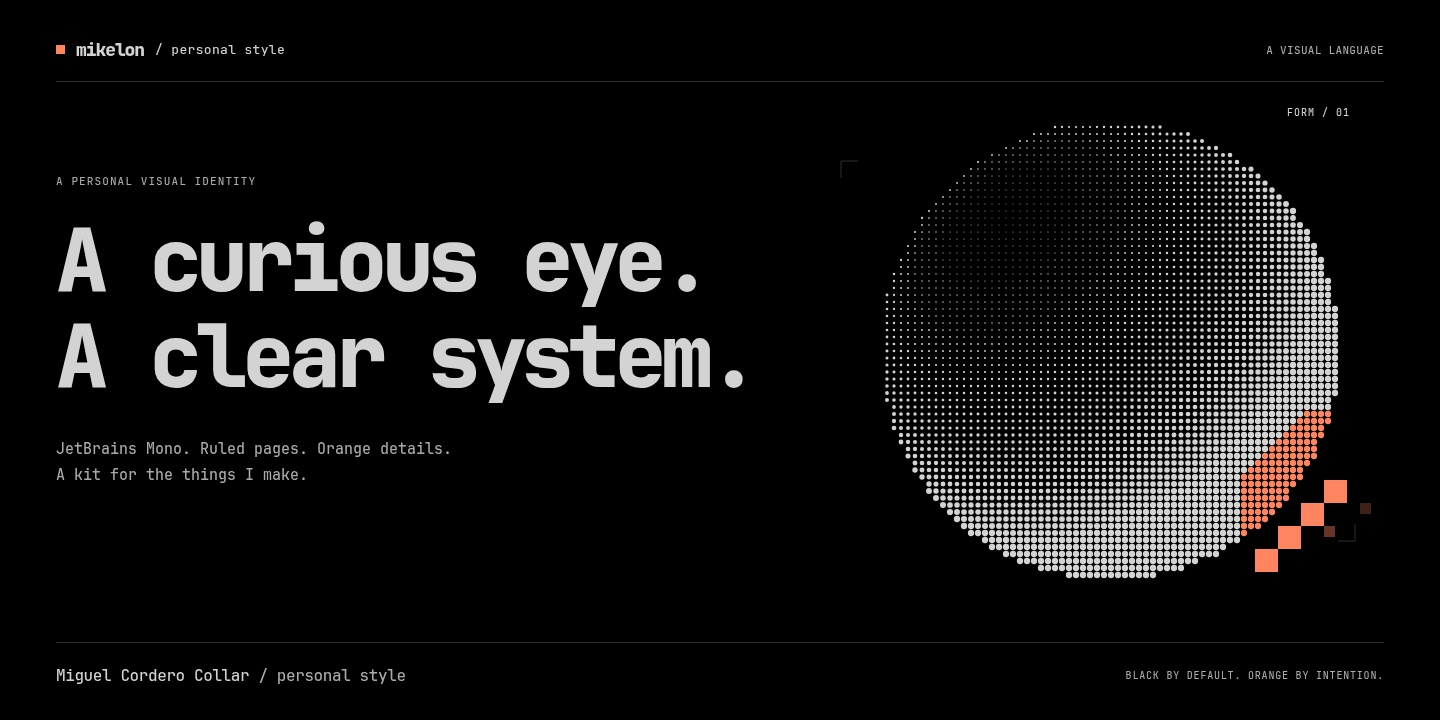
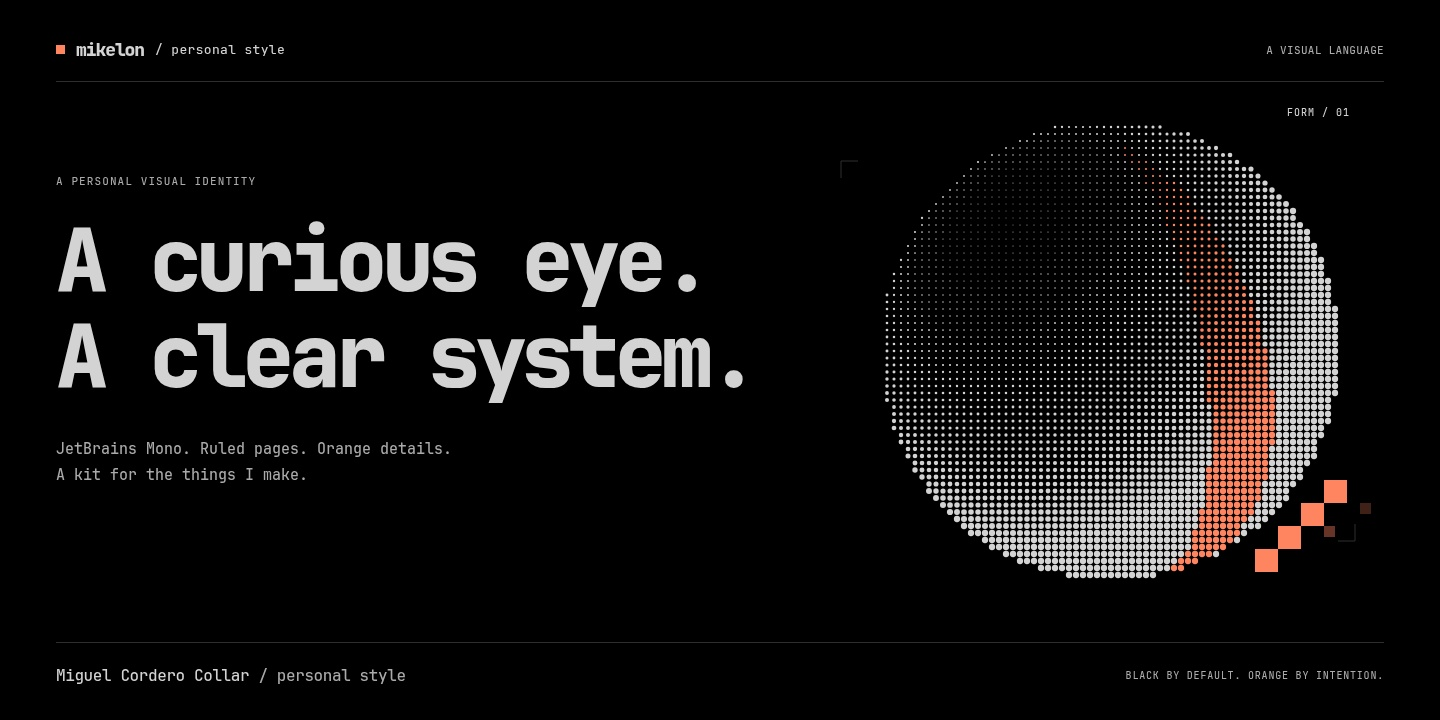
Turn the orange on the spheres into a wedge fixed to the surface
The rotating circle, hero globe, halftone sphere (asset, playground and
form recipe) and the identity banner now colour a band of longitude from
pole to pole. It is chosen in the globe's own coordinates, so it turns
with the rotation, and only front-facing dots show it.

Changed region(s): [[0.8125, 0.3056, 0.9375, 0.7944]]

diff --git a/skills/miguel-personal-style/assets/examples/design-system.html b/skills/miguel-personal-style/assets/examples/design-system.html
@@ -324,7 +324,7 @@
         <h1 id="page-title">Small details.<br>Distinct character.</h1>
         <p class="hero-copy">A working kit for the things I make.<br>Type, colour, useful components, and a little room to play.</p>
       </div>
-      <figure class="hero-art" aria-label="Procedural monochrome halftone study with an orange pixel marker">
+      <figure class="hero-art" aria-label="Procedural halftone globe with an orange wedge">
         <span class="art-index">FIG. 01 / DOT STUDY</span><div id="hero-sphere" aria-hidden="true"></div><figcaption class="art-caption">Precise grid. Imperfect ink.</figcaption>
       </figure>
     </section>
@@ -426,7 +426,7 @@
       <div class="motion-toolbar"><button type="button" class="btn" id="motion-play" aria-pressed="true">Pause motion <span aria-hidden="true">Ⅱ</span></button><label class="motion-control"><span class="control-top">Pace <output id="motion-speed-output" for="motion-speed">0.65×</output></span><input type="range" id="motion-speed" min="0.2" max="1.4" step="0.05" value="0.65"></label><label class="motion-control"><span class="control-top">Dot spacing <output id="motion-spacing-output" for="motion-spacing">22px</output></span><input type="range" id="motion-spacing" min="14" max="34" step="2" value="22"></label><label class="motion-control"><span class="control-top">Palette</span><select class="input" id="motion-colour"><option value="duo">Ink & orange</option><option value="ink">Neutral ink</option><option value="orange">Orange ink</option></select></label><label class="check motion-accent"><input type="checkbox" id="motion-accent" checked>Travelling orange</label><button type="button" class="text-button" id="motion-reset">Restart loops ↺</button></div>
       <p class="motion-status" id="motion-status" role="status">Choose this tab to start the live studies.</p>
       <div class="motion-grid" id="motion-grid"></div>
-      <p class="motion-credit">The travelling orange passes across the rotating objects, wave field and terrain. Dot orbit and Dither current use <a href="https://github.com/paper-design/shaders" target="_blank" rel="noopener">Paper Shaders 0.0.81</a>, bundled locally under <a href="../vendor/paper-shaders/LICENSE" target="_blank" rel="noopener">Apache 2.0</a>. The other five are original Canvas studies. Motion pauses in hidden tabs and outside the view; reduced-motion preferences start with stills. “Save frame” downloads a PNG of the current image.</p>
+      <p class="motion-credit">The rotating circle carries an orange wedge fixed to its surface; the travelling orange passes across the cube, wave field and terrain. Dot orbit and Dither current use <a href="https://github.com/paper-design/shaders" target="_blank" rel="noopener">Paper Shaders 0.0.81</a>, bundled locally under <a href="../vendor/paper-shaders/LICENSE" target="_blank" rel="noopener">Apache 2.0</a>. The other five are original Canvas studies. Motion pauses in hidden tabs and outside the view; reduced-motion preferences start with stills. “Save frame” downloads a PNG of the current image.</p>
     </section>
     <footer class="page-footer"><p>mikelon / A working design system.<br>Based on Miguel's personal website and mikelon_kit. Source palette and typography; new component and motif studies.</p><div class="footer-links"><a href="https://github.com/miguelcorderocollar/miguel-personal-style#install-the-skill" target="_blank" rel="noopener">Get the skill ↗</a><a href="../fonts/OFL.txt" target="_blank" rel="noopener">Font licence ↗</a></div></footer>
   </main>
@@ -504,21 +504,30 @@
     window.addEventListener('hashchange', () => selectTab(location.hash.slice(1)));
     $('#assets-link').addEventListener('click', event => { event.preventDefault(); selectTab('assets', true); $('.tabs-shell').scrollIntoView({block:'start'}); });
 
-    function sphereSVG(ink = palette().ink, accent = palette().accent, showMarker = true) {
-      let circles = '';
+    // The orange wedge: a band of longitude from pole to pole, fixed to the globe's surface.
+    // (nx, ny, nz) is a front-facing point on a unit sphere in screen space: x right, y down, z toward the viewer.
+    // Undo the globe's forward tilt, then compare the point's longitude with the wedge's meridian.
+    const WEDGE = { tilt: .42, spin: .58, half: .19 };
+    function inWedge(nx, ny, nz, { tilt = WEDGE.tilt, spin = WEDGE.spin, half = WEDGE.half } = {}) {
+      if (nz < 0) return false;
+      const longitude = Math.atan2(nx, ny * Math.sin(tilt) + nz * Math.cos(tilt)) - spin;
+      return Math.abs(Math.atan2(Math.sin(longitude), Math.cos(longitude))) < half;
+    }
+    function sphereSVG(ink = palette().ink, accent = palette().accent) {
+      let circles = '', wedge = '';
       for (let y = 16; y < 286; y += 5) for (let x = 16; x < 286; x += 5) {
         const nx = (x - 150) / 125, ny = (y - 150) / 125, d = nx * nx + ny * ny;
         if (d > 1) continue;
         const nz = Math.sqrt(1 - d), light = Math.max(0, -.56 * nx - .6 * ny + .57 * nz);
-        const radius = .35 + (1 - light) * 2.1;
-        circles += `<circle cx="${x}" cy="${y}" r="${radius.toFixed(2)}"/>`;
+        const mark = `<circle cx="${x}" cy="${y}" r="${(.35 + (1 - light) * 2.1).toFixed(2)}"/>`;
+        if (inWedge(nx, ny, nz)) wedge += mark; else circles += mark;
       }
-      return svgWrap(`<g fill="${ink}">${circles}</g>${showMarker ? `<path d="M249 225h13v13h13v13h-13v13h-13v-13h-13v-13h13z" fill="${accent}"/>` : ''}`, 'Procedural halftone sphere study', 300, 300);
+      return svgWrap(`<g fill="${ink}">${circles}</g><g fill="${accent}">${wedge}</g>`, 'Procedural halftone globe with an orange wedge', 300, 300);
     }
     const clamp = (value, low = 0, high = 1) => Math.max(low, Math.min(high, value));
     const noise = (x, y) => { const n = Math.sin(x * 127.1 + y * 311.7) * 43758.5453; return n - Math.floor(n); };
     const HALFTONES = ['sphere','cube','terrain','fade','ripple','mesh','wave','arrow'];
-    const HALFTONE_MODES = { cube:'duo', fade:'orange', mesh:'duo', arrow:'orange' };
+    const HALFTONE_MODES = { sphere:'duo', cube:'duo', fade:'orange', mesh:'duo', arrow:'orange' };
     function inPolygon(x, y, points) {
       let inside = false;
       for (let i = 0, j = points.length - 1; i < points.length; j = i++) {
@@ -555,13 +564,19 @@
       if (kind === 'arrow') return inPolygon(x,y,[[37,86],[190,86],[190,44],[281,110],[190,176],[190,134],[37,134]]) ? .12 + .8 * (x - 37) / 244 : null;
       return null;
     }
+    // Where "Ink + orange detail" places its orange. On the sphere, it is the surface-fixed wedge.
+    function halftoneAccent(kind, x, y) {
+      if (kind !== 'sphere') return x > 190 && y < 118;
+      const nx = (x - 160) / 86, ny = (y - 110) / 86;
+      return inWedge(nx, ny, Math.sqrt(Math.max(0, 1 - nx * nx - ny * ny)));
+    }
     function halftoneSVG(kind, options = {}) {
       const p = options.palette || palette(), cell = options.cell || 7, contrast = options.contrast ?? 1, dot = options.dot || 'circle', mode = options.mode || 'ink';
       let marks = '';
       for (let y = cell / 2; y < 220; y += cell) for (let x = cell / 2; x < 320; x += cell) {
         let tone = halftoneTone(kind, x, y); if (tone === null) continue;
         tone = Math.round(clamp((tone - .5) * contrast + .5) * 8) / 8;
-        const r = cell * .46 * (.12 + .88 * tone), colour = mode === 'orange' || (mode === 'duo' && x > 190 && y < 118) ? p.accent : p.ink;
+        const r = cell * .46 * (.12 + .88 * tone), colour = mode === 'orange' || (mode === 'duo' && halftoneAccent(kind, x, y)) ? p.accent : p.ink;
         const px = x.toFixed(2), py = y.toFixed(2), radius = r.toFixed(2);
         if (dot === 'square') marks += `<rect x="${(x-r*.85).toFixed(2)}" y="${(y-r*.85).toFixed(2)}" width="${(r*1.7).toFixed(2)}" height="${(r*1.7).toFixed(2)}" fill="${colour}"/>`;
         else if (dot === 'cross') marks += `<path d="M${(x-r).toFixed(2)} ${py}h${(r*2).toFixed(2)}M${px} ${(y-r).toFixed(2)}v${(r*2).toFixed(2)}" stroke="${colour}" stroke-width="${Math.max(.45,r*.5).toFixed(2)}" fill="none"/>`;
@@ -723,7 +738,7 @@
     const motionPresets = [
       {id:'orbit',name:'Dot orbit',note:'A field of dots, each moving around its own little centre. A loose background with a steady rhythm.',engine:'paper',pace:.8},
       {id:'dither',name:'Dither current',note:'A slow current passing through a fixed pixel screen. Try it behind a short title.',engine:'paper',pace:.22},
-      {id:'circle',name:'Rotating circle',note:'A dotted globe turns through a travelling band of orange. The dots follow the surface as it rotates.',engine:'canvas',pace:1},
+      {id:'circle',name:'Rotating circle',note:'A dotted globe turns with an orange wedge, a slice from pole to pole that stays on the surface as it rotates.',engine:'canvas',pace:1},
       {id:'cube',name:'Turning cube',note:'Three dotted faces turn in perspective while a warm strip passes across the object.',engine:'canvas',pace:1},
       {id:'wave',name:'Wave field',note:'Rows of dots grow and settle as a wave moves through them.',engine:'canvas',pace:1},
       {id:'terrain',name:'Drifting terrain',note:'A dotted landscape shifting under a quiet horizon.',engine:'canvas',pace:1},
@@ -764,7 +779,10 @@
             const longitude=col*Math.PI*2/count,point=rotatedPoint({x:Math.cos(latitude)*Math.cos(longitude),y:Math.sin(latitude),z:Math.cos(latitude)*Math.sin(longitude)},time);
             if(point.z<0)continue;
             const shade=clamp(point.x*-.42+point.y*-.48+point.z*.65);
-            dots.push({...point,r:1.2+(1-shade)*1.6});
+            // The wedge is chosen in the globe's own coordinates (before rotation), so it turns with the surface.
+            // Column 0 is its centre meridian: every ring contributes a dot and the slice meets at both poles.
+            const offset=Math.min(longitude,Math.PI*2-longitude);
+            dots.push({...point,r:1.2+(1-shade)*1.6,wedge:offset<.3});
           }
         }
       }
@@ -780,7 +798,7 @@
         const scale=Math.min(h*(scene.id==='cube'?.235:.33),w*.27);
         for(const point of rotatingDots(scene.id,time,gap)){
           const perspective=4.5/(4.5-point.z),x=w*.5+point.x*scale*perspective,y=h*.52+point.y*scale*perspective;
-          dot(x,y,point.r*perspective,motionAccentAt(point.x/2.8+.5,time,point.x>.3&&point.y<.3));
+          dot(x,y,point.r*perspective,scene.id==='circle'?point.wedge:motionAccentAt(point.x/2.8+.5,time,point.x>.3&&point.y<.3));
         }
       } else if (scene.id === 'terrain') {
         const columns=Math.ceil(w/(gap*.65)), rows=15;

diff --git a/banners/graphics.js b/banners/graphics.js
@@ -11,7 +11,9 @@ if(kind==='identity'){
     const q=(x*x+y*y)/(R*R);if(q>1)continue;
     const z=Math.sqrt(1-q),light=Math.max(0,-.45*x/R-.55*y/R+.65*z);
     const radius=.40+2.75*Math.pow(1-light,1.05);
-    const orange=x>130&&y>60&&x+y>260;
+    // An orange wedge: a band of longitude fixed to the tilted globe, meeting at both poles.
+    const tilt=.42,spin=.62,longitude=Math.atan2(x/R,(y/R)*Math.sin(tilt)+z*Math.cos(tilt))-spin;
+    const orange=Math.abs(Math.atan2(Math.sin(longitude),Math.cos(longitude)))<.17;
     marks+=circle(cx+x,cy+y,radius,orange?accent:ink);
   }
   marks+=`<path d="M858 161h-17v17M1355 524v17h-17" fill="none" stroke="${rule}"/>`;
